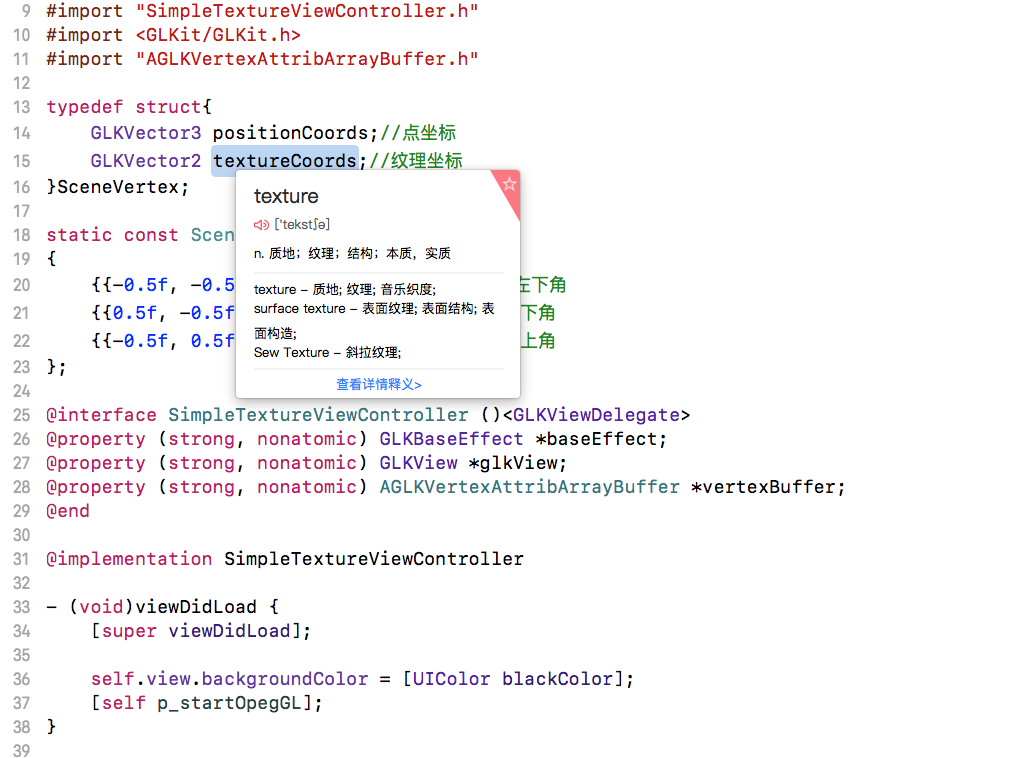
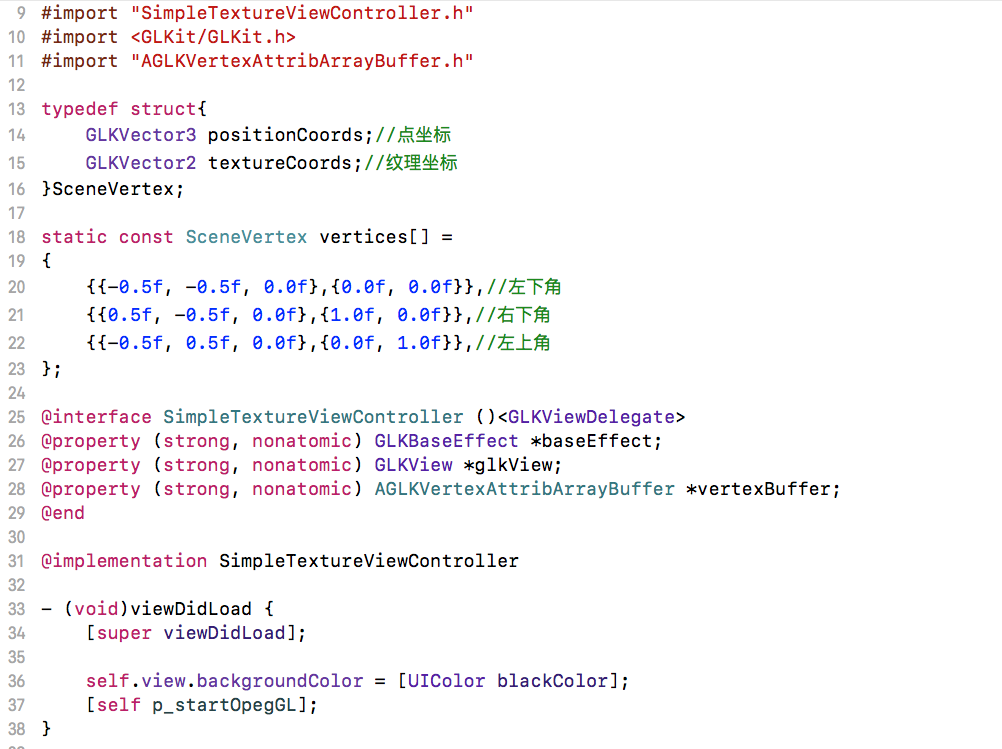
渲染一个简单纹理完成

Changed region(s): [[0.0, 0.0, 0.8353, 1.0], [0.0928, 0.8905, 0.6497, 0.9519]]

diff --git a/学习笔记/OpegGL/3.渲染一个简单纹理.md b/学习笔记/OpegGL/3.渲染一个简单纹理.md
@@ -6,3 +6,8 @@
 
 [代码地址](https://github.com/RPGLiker/StudyForOpenGL/blob/master/OpegGLDemo/OpegGLDemo/Class/SimpleTexture/SimpleTextureViewController.m)
 
+![](https://github.com/RPGLiker/StudyBlog/blob/master/%E5%AD%A6%E4%B9%A0%E7%AC%94%E8%AE%B0/OpegGL/%E5%9B%BE%E7%89%87/3.%E6%B8%B2%E6%9F%93%E4%B8%80%E4%B8%AA%E7%AE%80%E5%8D%95%E7%BA%B9%E7%90%86/1.png)
+
+![](https://github.com/RPGLiker/StudyBlog/blob/master/%E5%AD%A6%E4%B9%A0%E7%AC%94%E8%AE%B0/OpegGL/%E5%9B%BE%E7%89%87/3.%E6%B8%B2%E6%9F%93%E4%B8%80%E4%B8%AA%E7%AE%80%E5%8D%95%E7%BA%B9%E7%90%86/2.png)
+
+![](https://github.com/RPGLiker/StudyBlog/blob/master/%E5%AD%A6%E4%B9%A0%E7%AC%94%E8%AE%B0/OpegGL/%E5%9B%BE%E7%89%87/3.%E6%B8%B2%E6%9F%93%E4%B8%80%E4%B8%AA%E7%AE%80%E5%8D%95%E7%BA%B9%E7%90%86/3.png)

diff --git a/学习笔记/学习笔记目录.md b/学习笔记/学习笔记目录.md
@@ -10,3 +10,5 @@
 2018.4.19 [1,渲染一个简单的三角形](https://github.com/RPGLiker/StudyBlog/blob/master/%E5%AD%A6%E4%B9%A0%E7%AC%94%E8%AE%B0/OpegGL/1.%E6%B8%B2%E6%9F%93%E4%B8%80%E4%B8%AA%E7%AE%80%E5%8D%95%E7%9A%84%E4%B8%89%E8%A7%92%E5%BD%A2.md)
 
 2018.4.20 [2.自定义一个渲染工具的封装](https://github.com/RPGLiker/StudyBlog/blob/master/%E5%AD%A6%E4%B9%A0%E7%AC%94%E8%AE%B0/OpegGL/2.%E8%87%AA%E5%AE%9A%E4%B9%89%E4%B8%80%E4%B8%AA%E6%B8%B2%E6%9F%93%E5%B7%A5%E5%85%B7%E7%9A%84%E5%B0%81%E8%A3%85.md)
+
+2018.4.23 [3.渲染一个简单纹理](https://github.com/RPGLiker/StudyBlog/blob/master/%E5%AD%A6%E4%B9%A0%E7%AC%94%E8%AE%B0/OpegGL/3.%E6%B8%B2%E6%9F%93%E4%B8%80%E4%B8%AA%E7%AE%80%E5%8D%95%E7%BA%B9%E7%90%86.md)
